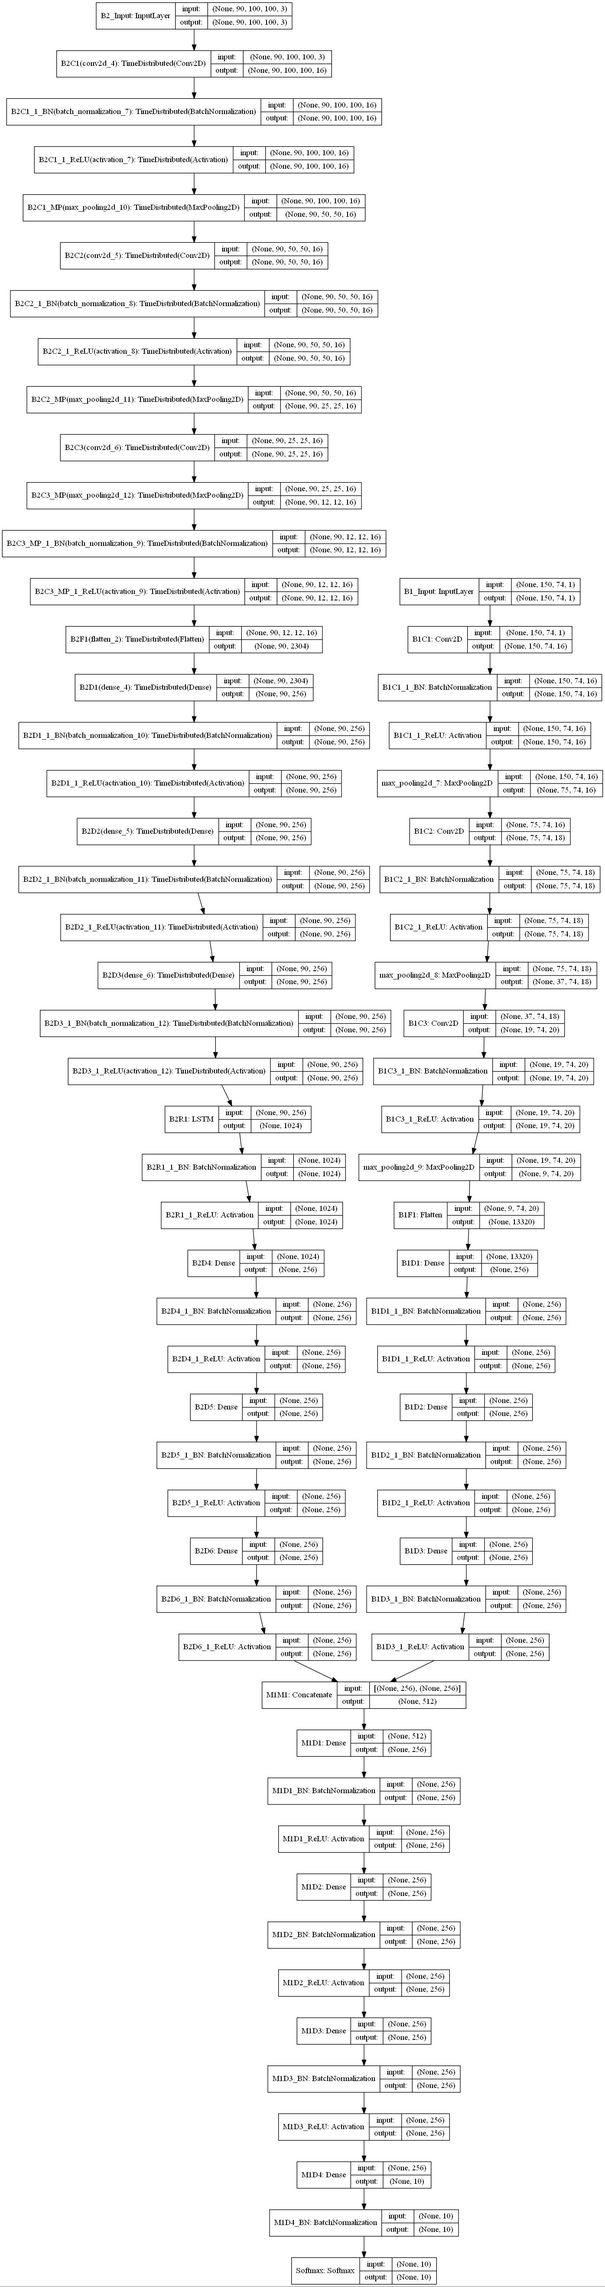
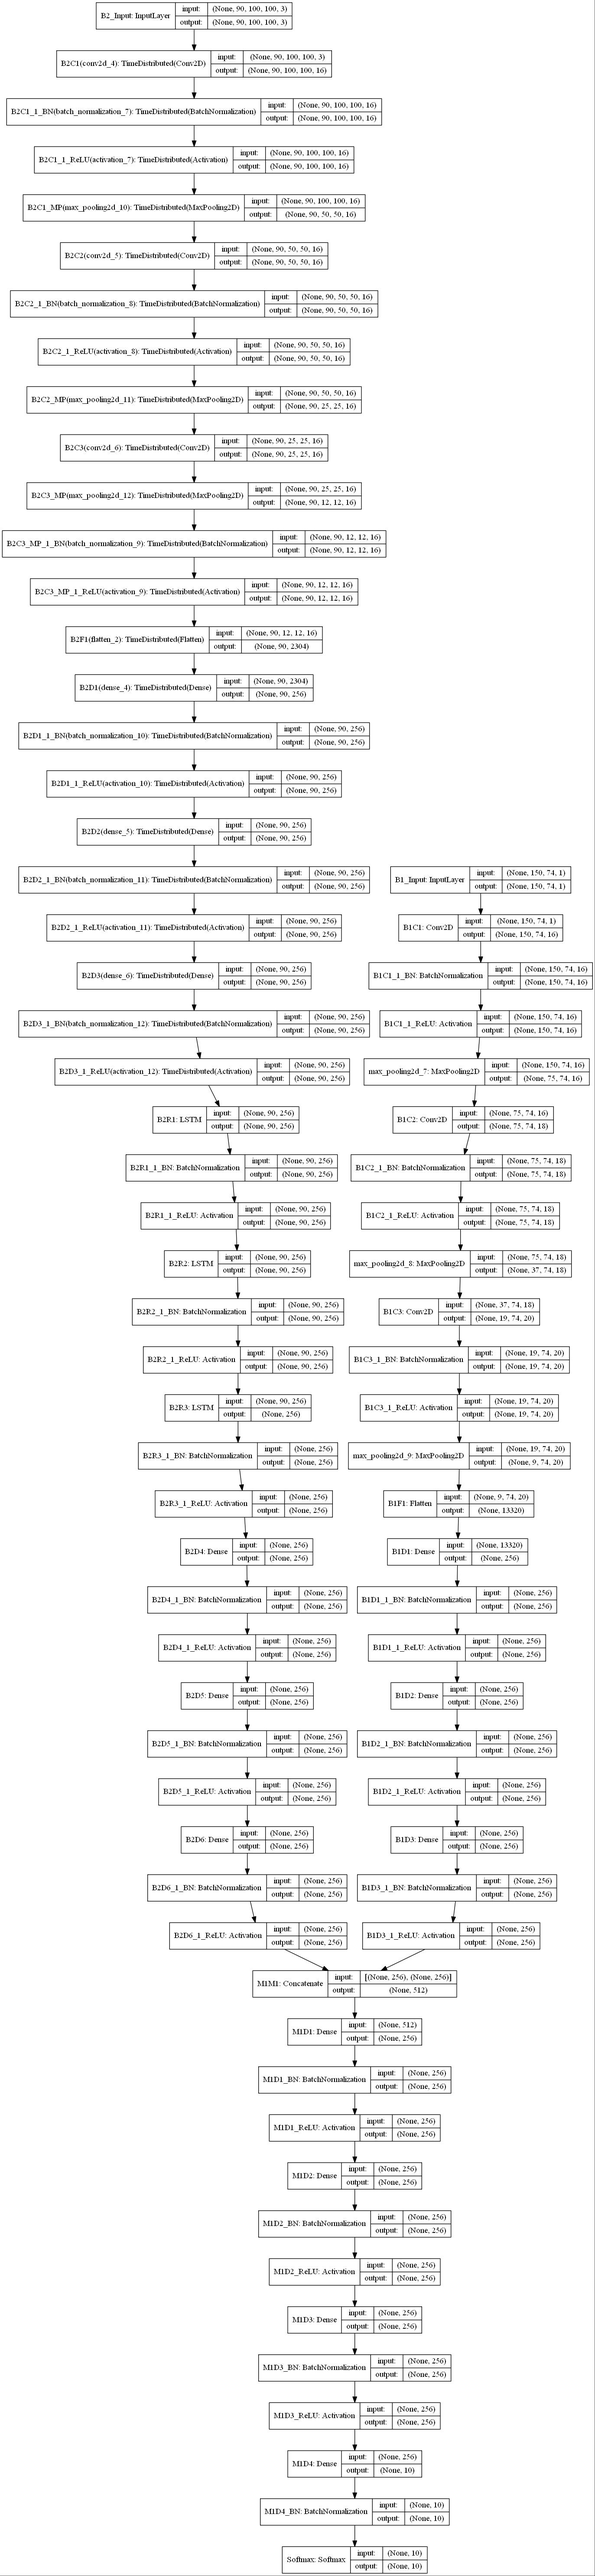
modeling

diff --git a/Project_DNN/scripts/models.py b/Project_DNN/scripts/models.py
@@ -43,7 +43,7 @@ def Layer_B1():
     '''
     branch 1 (spoint cnn branch)
     '''
-    b1_dropout = 0.0
+    b1_dropout = 0.4
 
     b1_input = Input(shape=(150, 74, 1), name='B1_Input')
     #b1 = _add_BN_ReLU_DO(b1, b1_dropout)
@@ -84,7 +84,7 @@ def Layer_B2():
     '''
     branch 2 (roi cnn+lstm branch)
     '''
-    b2_dropout = 0.0
+    b2_dropout = 0.00
 
     b2_input = Input(shape=(90, 100, 100, 3), name='B2_Input')
     #b2 = _add_BN_ReLU_DO_TD(b2, b2_dropout)
@@ -118,7 +118,11 @@ def Layer_B2():
     b2 = _add_BN_ReLU_DO_TD(b2, b2_dropout)
     b2 = TimeDistributed(Dense(256), name="B2D3")(b2)
     b2 = _add_BN_ReLU_DO_TD(b2, b2_dropout)
-    b2 = LSTM(1024, dropout=b2_dropout, name='B2R1')(b2)
+    b2 = LSTM(256, dropout=b2_dropout, return_sequences=True, name='B2R1')(b2)
+    b2 = _add_BN_ReLU_DO(b2, b2_dropout)
+    b2 = LSTM(256, dropout=b2_dropout, return_sequences=True, name='B2R2')(b2)
+    b2 = _add_BN_ReLU_DO(b2, b2_dropout)
+    b2 = LSTM(256, dropout=b2_dropout, name='B2R3')(b2)
     b2 = _add_BN_ReLU_DO(b2, b2_dropout)
     b2 = Dense(256, name='B2D4')(b2)
     b2 = _add_BN_ReLU_DO(b2, b2_dropout)
@@ -150,7 +154,7 @@ def Model_M1():
       lr=1e-4로 최소 epoch 60번은 돌려야 2,3을 구분할 수 있더라
     '''
     m1_dropout = 0.0
-    m1_learningRate = 5e-5
+    m1_learningRate = 1e-4
     #decay_rate = m1_learningRate / 20 # lr/epoches
     #relu_alpha = 0.1
 
@@ -170,7 +174,7 @@ def Model_M1():
     x = Softmax(name='Softmax')(x)
     m1o = x
     
-    optimizer = RMSprop(lr=m1_learningRate)
+    optimizer = Adam(lr=m1_learningRate)
 
     # model.compile(loss_weights={'main_output': 1., 'aux_output': 0.2})
     model = Model(inputs=[b1i, b2i], outputs=[m1o])
